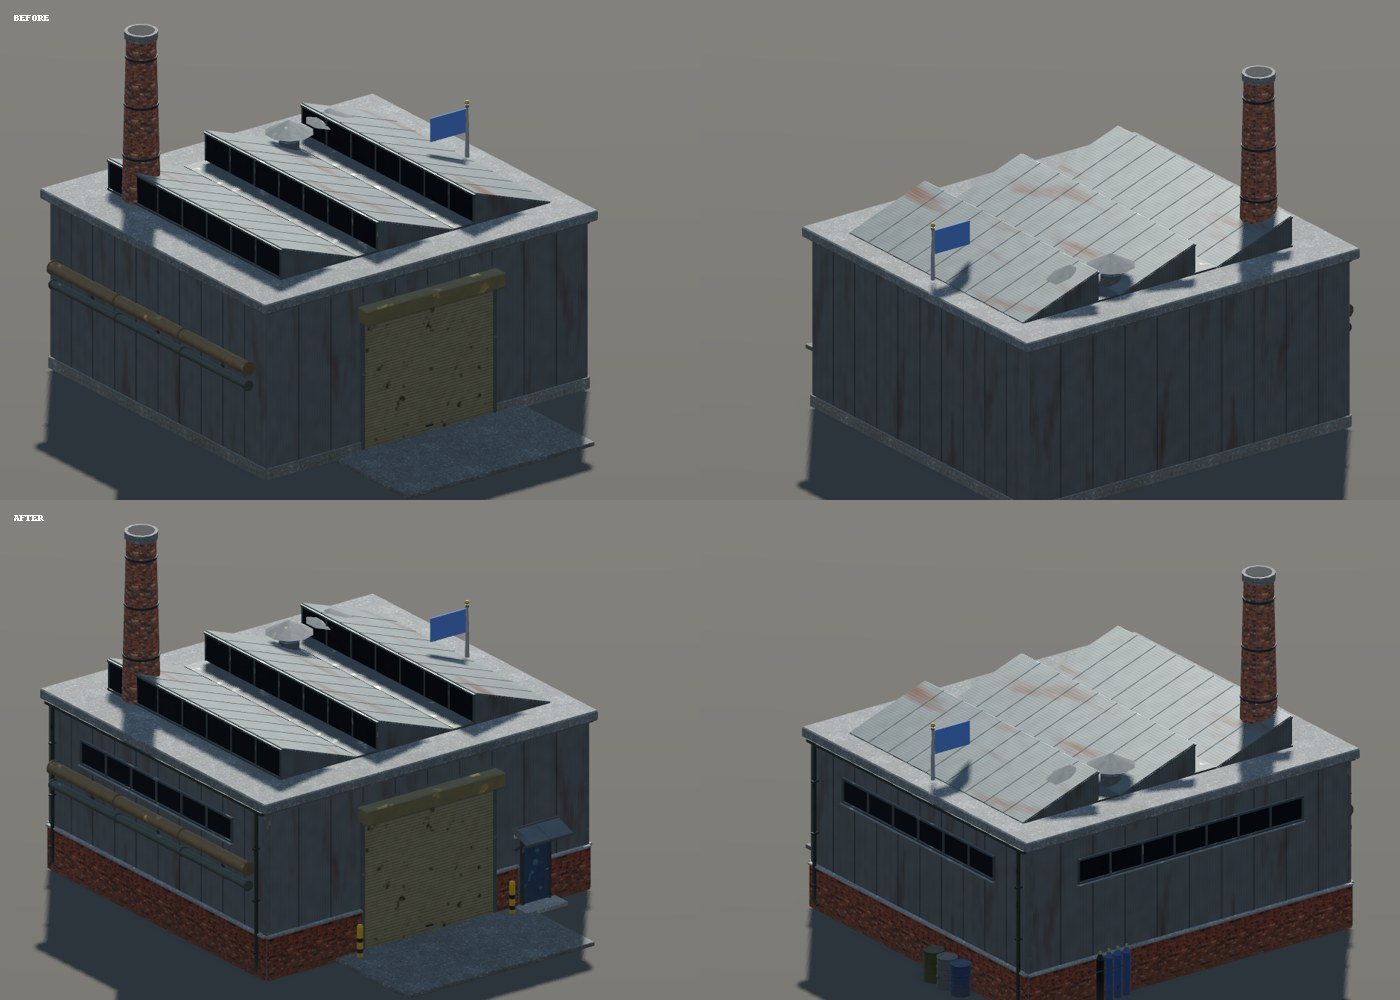
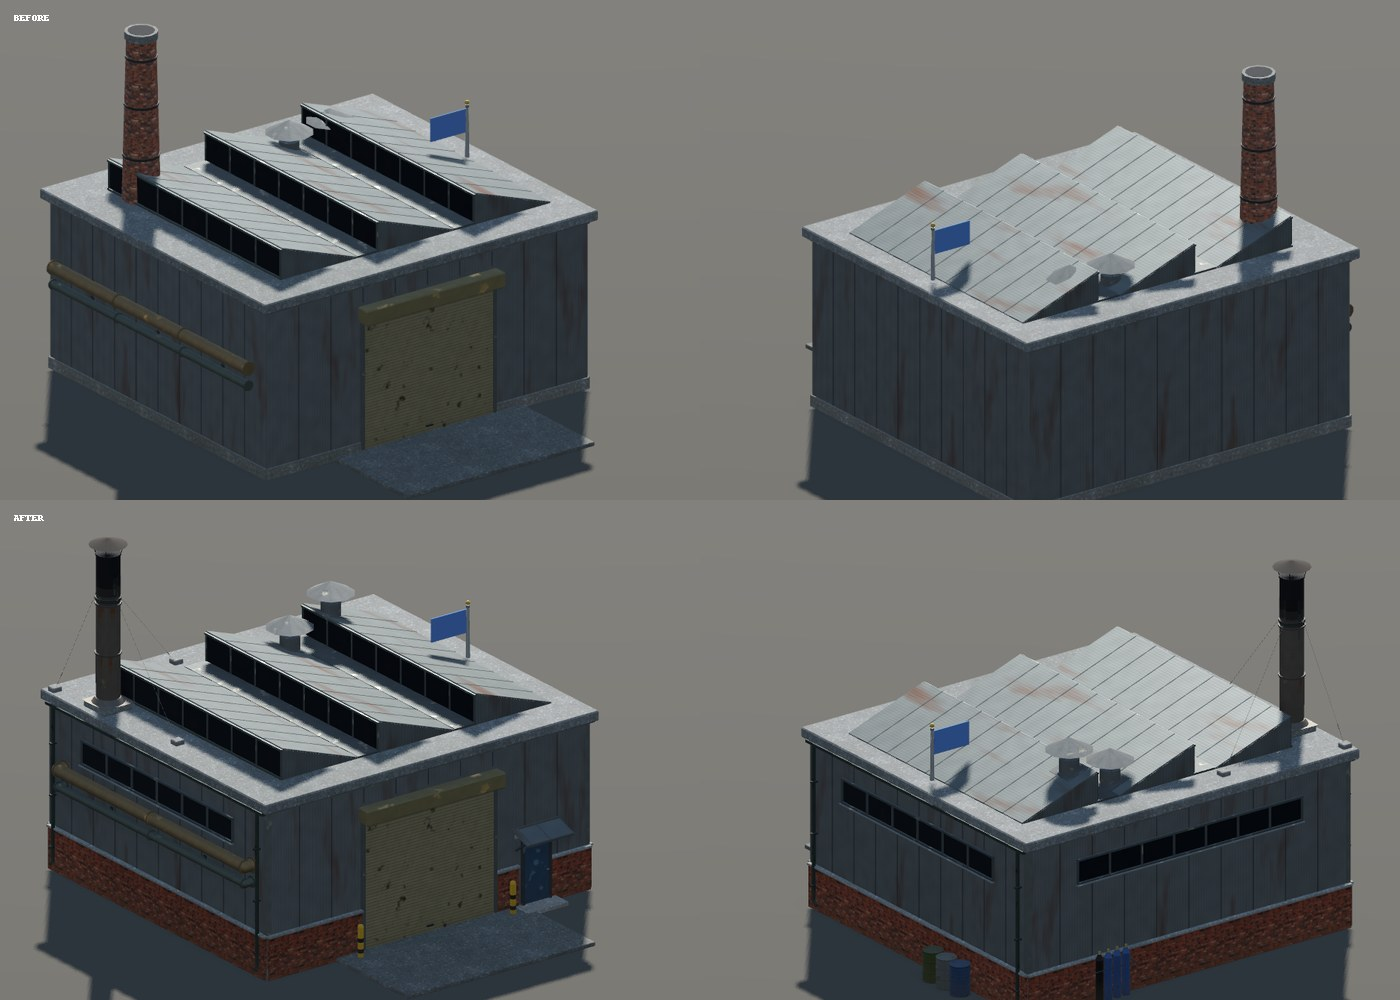
Give the vehicle works a steel boiler stack for its chimney
The factory's chimney was a tapered brick mill stack standing straight on
the roof slab, through the last north light, with no kerb or flashing and
not a mark of use on it: a toy factory's chimney on a sheet-steel shed that
no light roof could carry. It is now the boiler's flue as a shed like this
has one (BuildingFactory.chimney, BuildingFittings.steel_stack): a steel
stack out through the slab in the strip between the last north light and
the side eaves, on a kerb under a storm collar, in flanged lengths, guyed
three ways to blocks on the slab, under a rain cap. Its top is sooted black,
soot runs down from it and rust weeps from the joints, from a stream of its
own so the walls draw as before. The smoke comes out of the mouth it returns.

The extract cowls stood at the slab's height, so one lay half-buried in a
north light like a saucer: they now stand on the slopes through flashings
(BuildingRoofs.sawtooth_rise). The pipes down the side ended in mid-air at
both ends: they now turn into the wall.

The fixture checks the chimney stands on its kerb on the slab, inside the
eaves and out of the north lights, its mouth where the smoke goes, and
builds the steel stack among the fittings. Also renames the water tower
check's locals, which clashed with the barn tools' on main.

diff --git a/docs/building-components.md b/docs/building-components.md
@@ -11,8 +11,8 @@ The collision and cover a structure gives (`Structure._define_parts`) never depe
 | `scripts/game/building_materials.gd` | `BuildingMaterials` | Construction materials: surface, colour, dressings, finish |
 | `scripts/game/building_walls.gd` | `BuildingWalls` | Faces (plinths, bands, boards, sheeting, joints, quoins), copings, piers |
 | `scripts/game/building_openings.gd` | `BuildingOpenings` | Windows, sills, heads, shutters, doorways, door leaves, roller shutters, louvres, ribbon glazing |
-| `scripts/game/building_roofs.gd` | `BuildingRoofs` | Gables, hipped roofs (and pyramids), flat roofs with parapets (and their wear), single-pitch roofs, canopies, north lights; `underside` for seating things on a slope |
-| `scripts/game/building_fittings.gd` | `BuildingFittings` | Gutters, hoppers, downpipes, chimneys, flues, stacks, pipe runs, plant, masts, aerials, flagpoles, lamps, drums, crates, pallets |
+| `scripts/game/building_roofs.gd` | `BuildingRoofs` | Gables, hipped roofs (and pyramids), flat roofs with parapets (and their wear), single-pitch roofs, canopies, north lights; `underside` for seating things on a slope, `sawtooth_rise` on north lights |
+| `scripts/game/building_fittings.gd` | `BuildingFittings` | Gutters, hoppers, downpipes, chimneys, flues, stacks (brick, and guyed steel), pipe runs, plant, masts, aerials, flagpoles, lamps, drums, crates, pallets |
 | `scripts/game/building_fences.gd` | `BuildingFences` | Fence bays in nine styles (picket, post-and-rail, railings, close-board, paling, chain-link, bow-top, military security, mesh panels) and their gates |
 | `scripts/game/building_wire.gd` | `BuildingWire` | Catenary spans, cables, guys with anchors, insulators, barbed strands, wall-top wire |
 | `scripts/game/building_weathering.gd` | `BuildingWeathering` | Ivy, weeds at the foot of walls, the fallen-in roof on a ruin's floor, roof tarps and holes; stains that fade into a wall (soot, rain streaks, scorch), shell scars, bullet strikes, boarded and sandbagged windows |
@@ -360,6 +360,13 @@ The factory's walls are `BuildingFactory.walls`, over the shed the structure's p
 - at the front, the roller shutter between hazard-painted bollards, and a personnel door with a sheeted canopy;
 - gas bottles chained to the back wall and drums down one side.
 
+Its chimney is `BuildingFactory.chimney`: the boiler's flue, a steel stack (`BuildingFittings.steel_stack`) out
+through the roof slab in the strip between the last north light and the side eaves, near the back. A sheeted
+shed has no brick stack: nothing on a light roof could carry one. The stack stands on a kerb under a storm collar,
+in flanged lengths, guyed three ways to blocks on the slab, under a rain cap. Its top is black with soot that runs
+down it, and rust weeps from its joints; the smoke comes out of the mouth `chimney` returns. The extract cowls stand
+on the north lights' slopes through flashings, and the pipes down the side come out of the wall and go back into it.
+
 Render it with `--building-kinds=factory:0` (add `--building-rear` for the back).
 
 ## The water tower
@@ -401,11 +408,11 @@ parts in its bake. Render them with `--building-kinds=crates:-1:0,crates:-1:1`.
 | `BuildingRoofs.gable`, `hip` | House roofs (tile: about a third hipped), barracks (sheet) |
 | `BuildingRoofs.flat`, `mono`, `canopy`, `sawtooth` | Flat house roofs; watchtower roof; barracks porch and house door hoods; factory north lights |
 | `BuildingFittings` rainwater goods | Every pitched and flat house roof, the barracks, the boat shed |
-| `BuildingFittings.chimney`, `flue`, `stack`, `pipe` | House chimneys; barracks stove, bunker vent, factory cowls, generator exhaust; factory chimney and pipe runs |
+| `BuildingFittings.chimney`, `flue`, `stack`, `steel_stack`, `pipe` | House chimneys; barracks stove, bunker vent, factory cowls, generator exhaust; the components sheet's brick works chimney; the factory's boiler stack and pipe runs |
 | `BuildingFittings` plant | Flat roofs, barracks and research post (air conditioners, water tanks, dishes) |
 | `BuildingFittings.mast`, `whip`, `flagpole`, `lamp` | FOB and research post masts; FOB and bunker aerials; town dump, barracks, Coalition dock flagpoles; bridge and quay lamps |
 | `BuildingFittings.drum`, `crate`, `pallet` | FOB, town dumps, barracks, barricades, ammunition caches, the dock |
-| `BuildingFactory.walls` | The factory (vehicle works) |
+| `BuildingFactory.walls`, `chimney` | The factory (vehicle works) |
 | `BuildingCargo.stack`, `shipping_crate`, `ammo_box`, `pallet_load`, `ammo_row` | Cover crate stacks, the town's supply dumps, the FOB's stores |
 | `BuildingWire` | Mast guys, tent, tarp, camouflage-net and FOB net guy ropes, utility-pole insulators, power-line sag (Decor), barbed strands (also the concertina), compound-wall wire |
 

diff --git a/changelog/unreleased/vehicle-works.md b/changelog/unreleased/vehicle-works.md
@@ -1,11 +1,15 @@
 +++
 title = "The factory looks like a working vehicle shed"
-summary = "The factory has a brick dado under its sheeting, glazing high along its sides and back, gutters and downpipes, bollards either side of the shutter, a personnel door with a canopy, and gas bottles and drums against its walls."
+summary = "The factory has a brick dado under its sheeting, glazing high along its sides and back, gutters and downpipes, bollards either side of the shutter, a personnel door with a canopy, and gas bottles and drums against its walls. Its chimney is now a guyed steel boiler stack."
 kind = "improved"
 
 [[screenshots]]
 file = "comparison.jpg"
 caption = "The factory from the front and from the back, before and after"
+
+[[screenshots]]
+file = "chimney.jpg"
+caption = "The chimney before and after: the brick stack that stood through a roof light, and the steel boiler stack on the roof"
 +++
 
 - **The walls** have a brick dado to knee height under a concrete coping. The sheeting above it has corner flashings.
@@ -13,3 +17,5 @@ caption = "The factory from the front and from the back, before and after"
 - **Rainwater** runs off the roof into gutters along the side eaves and down a downpipe at each corner.
 - **At the front**, hazard-yellow bollards guard the roller shutter's jambs. Beside it is a personnel door with a sheeted canopy.
 - **Gas bottles** for the welders are chained to the back wall, and drums stand down one side.
+- **The chimney** was a brick mill stack standing on the sheet roof, straight through one of the roof lights. It is now the boiler's steel stack: it rises beside the roof lights from a kerb, guyed to the roof and under a rain cap. Its top is black with soot, and rust runs from its joints.
+- **On the roof**, the extract cowls stand on the slopes instead of lying on them. The pipes along the side come out of the wall and go back into it.
